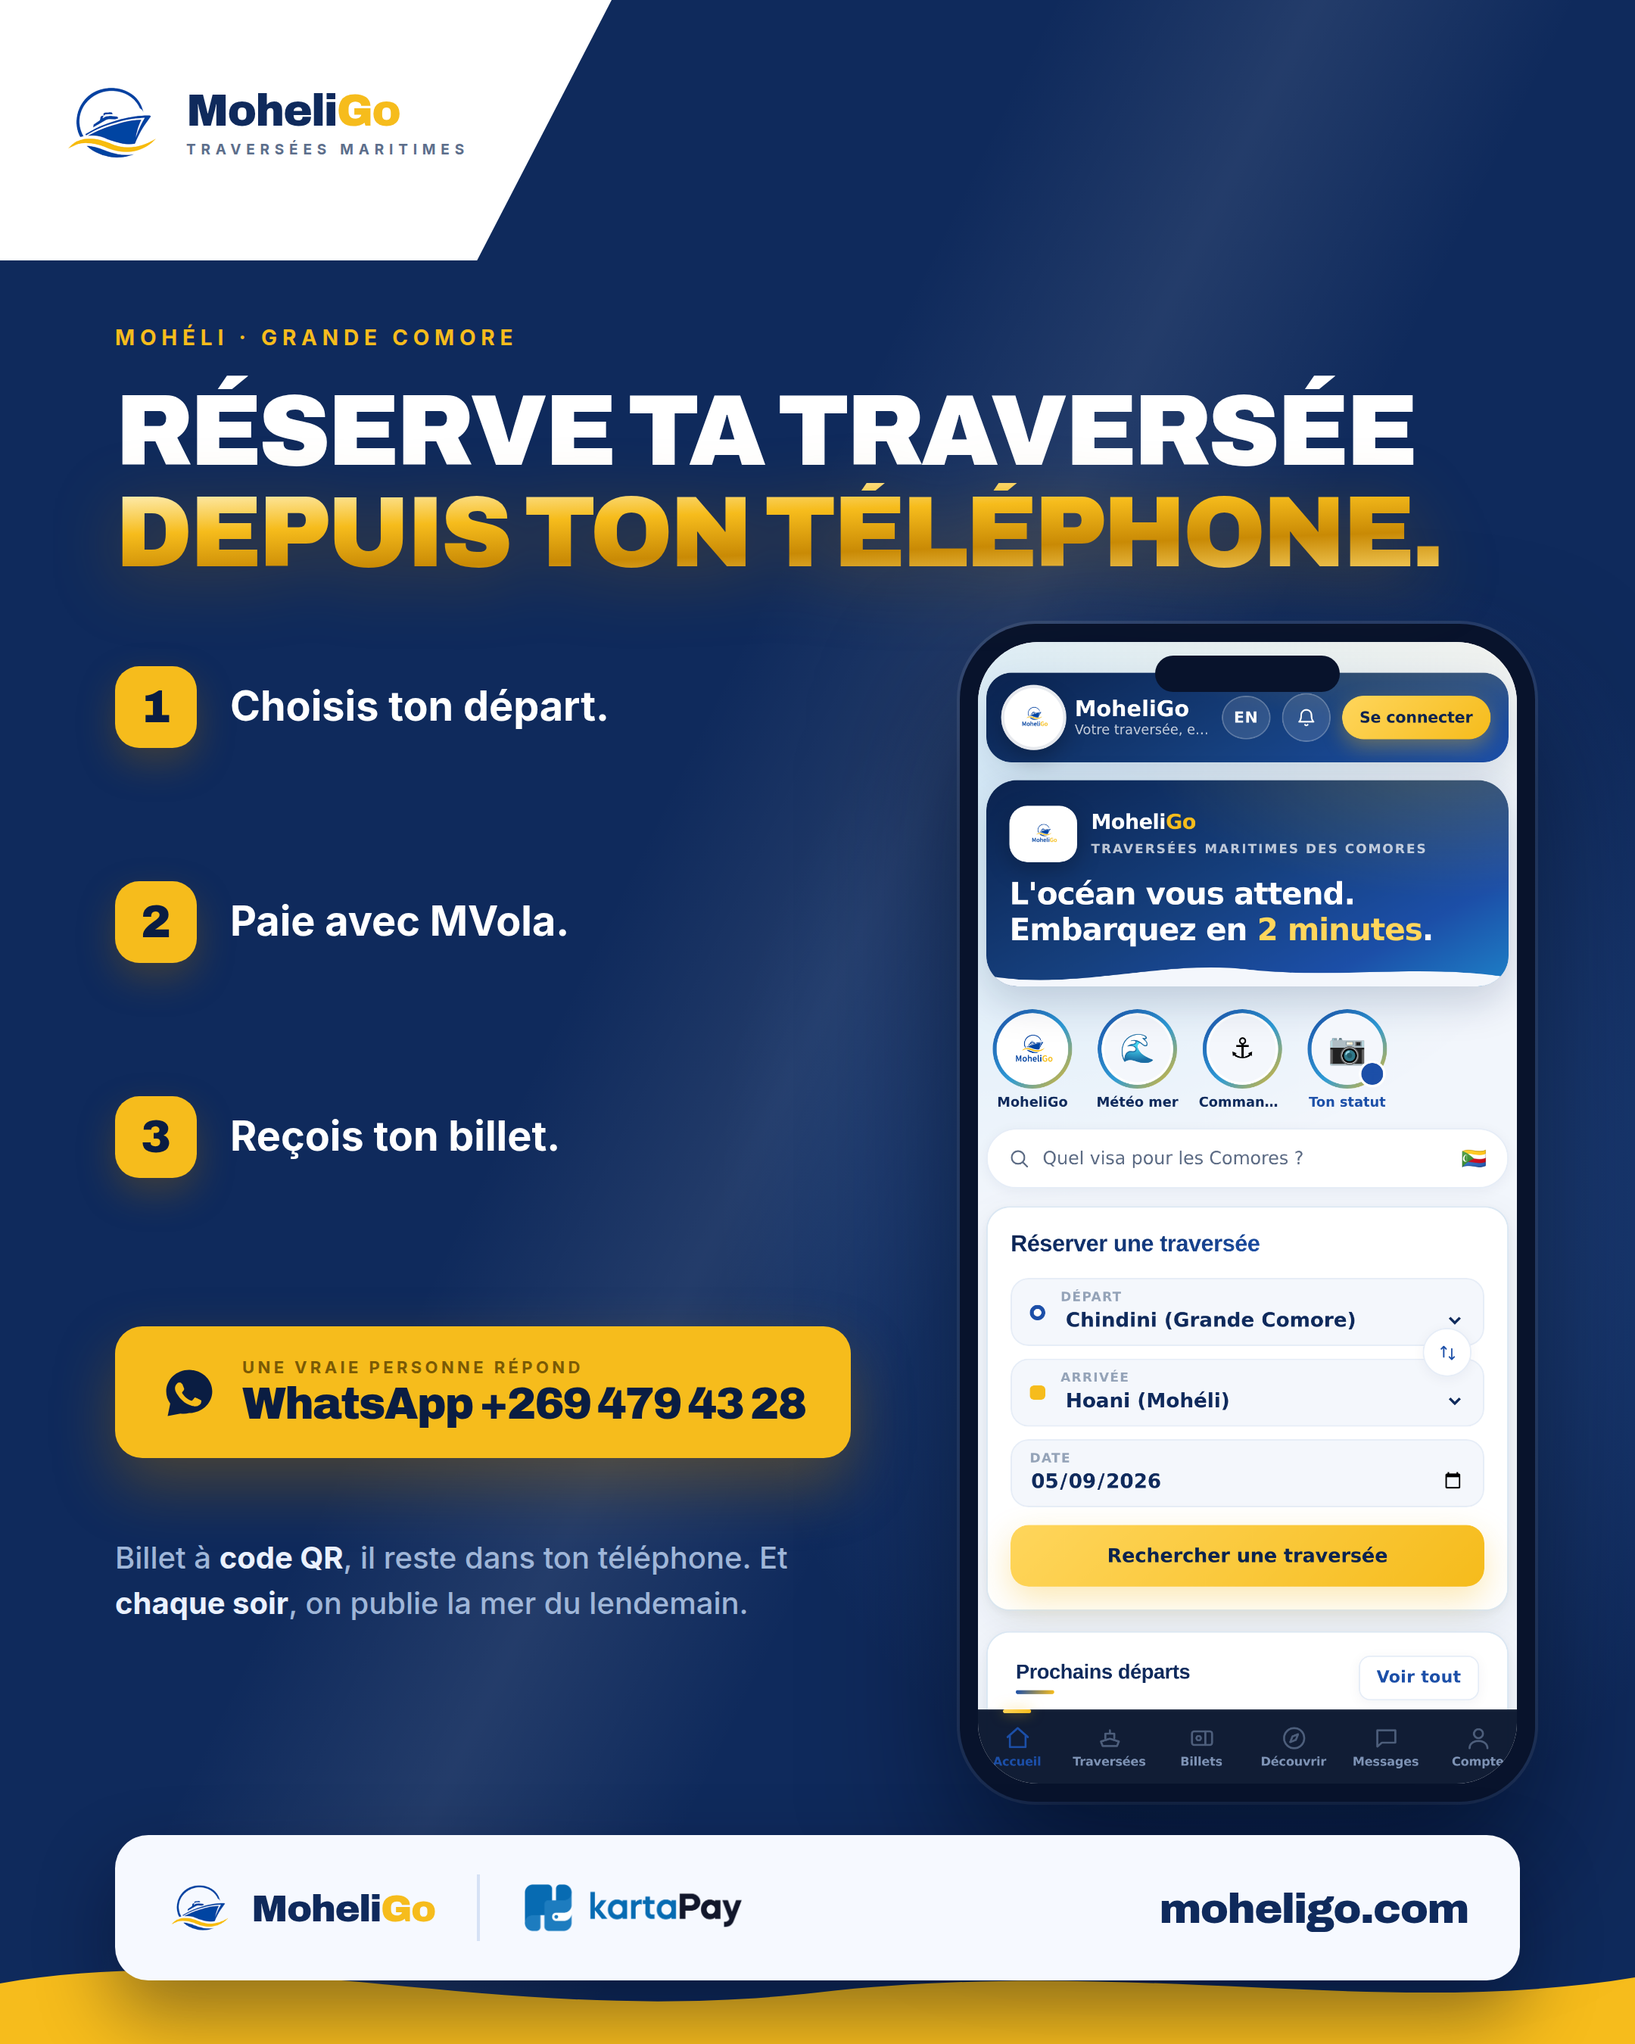
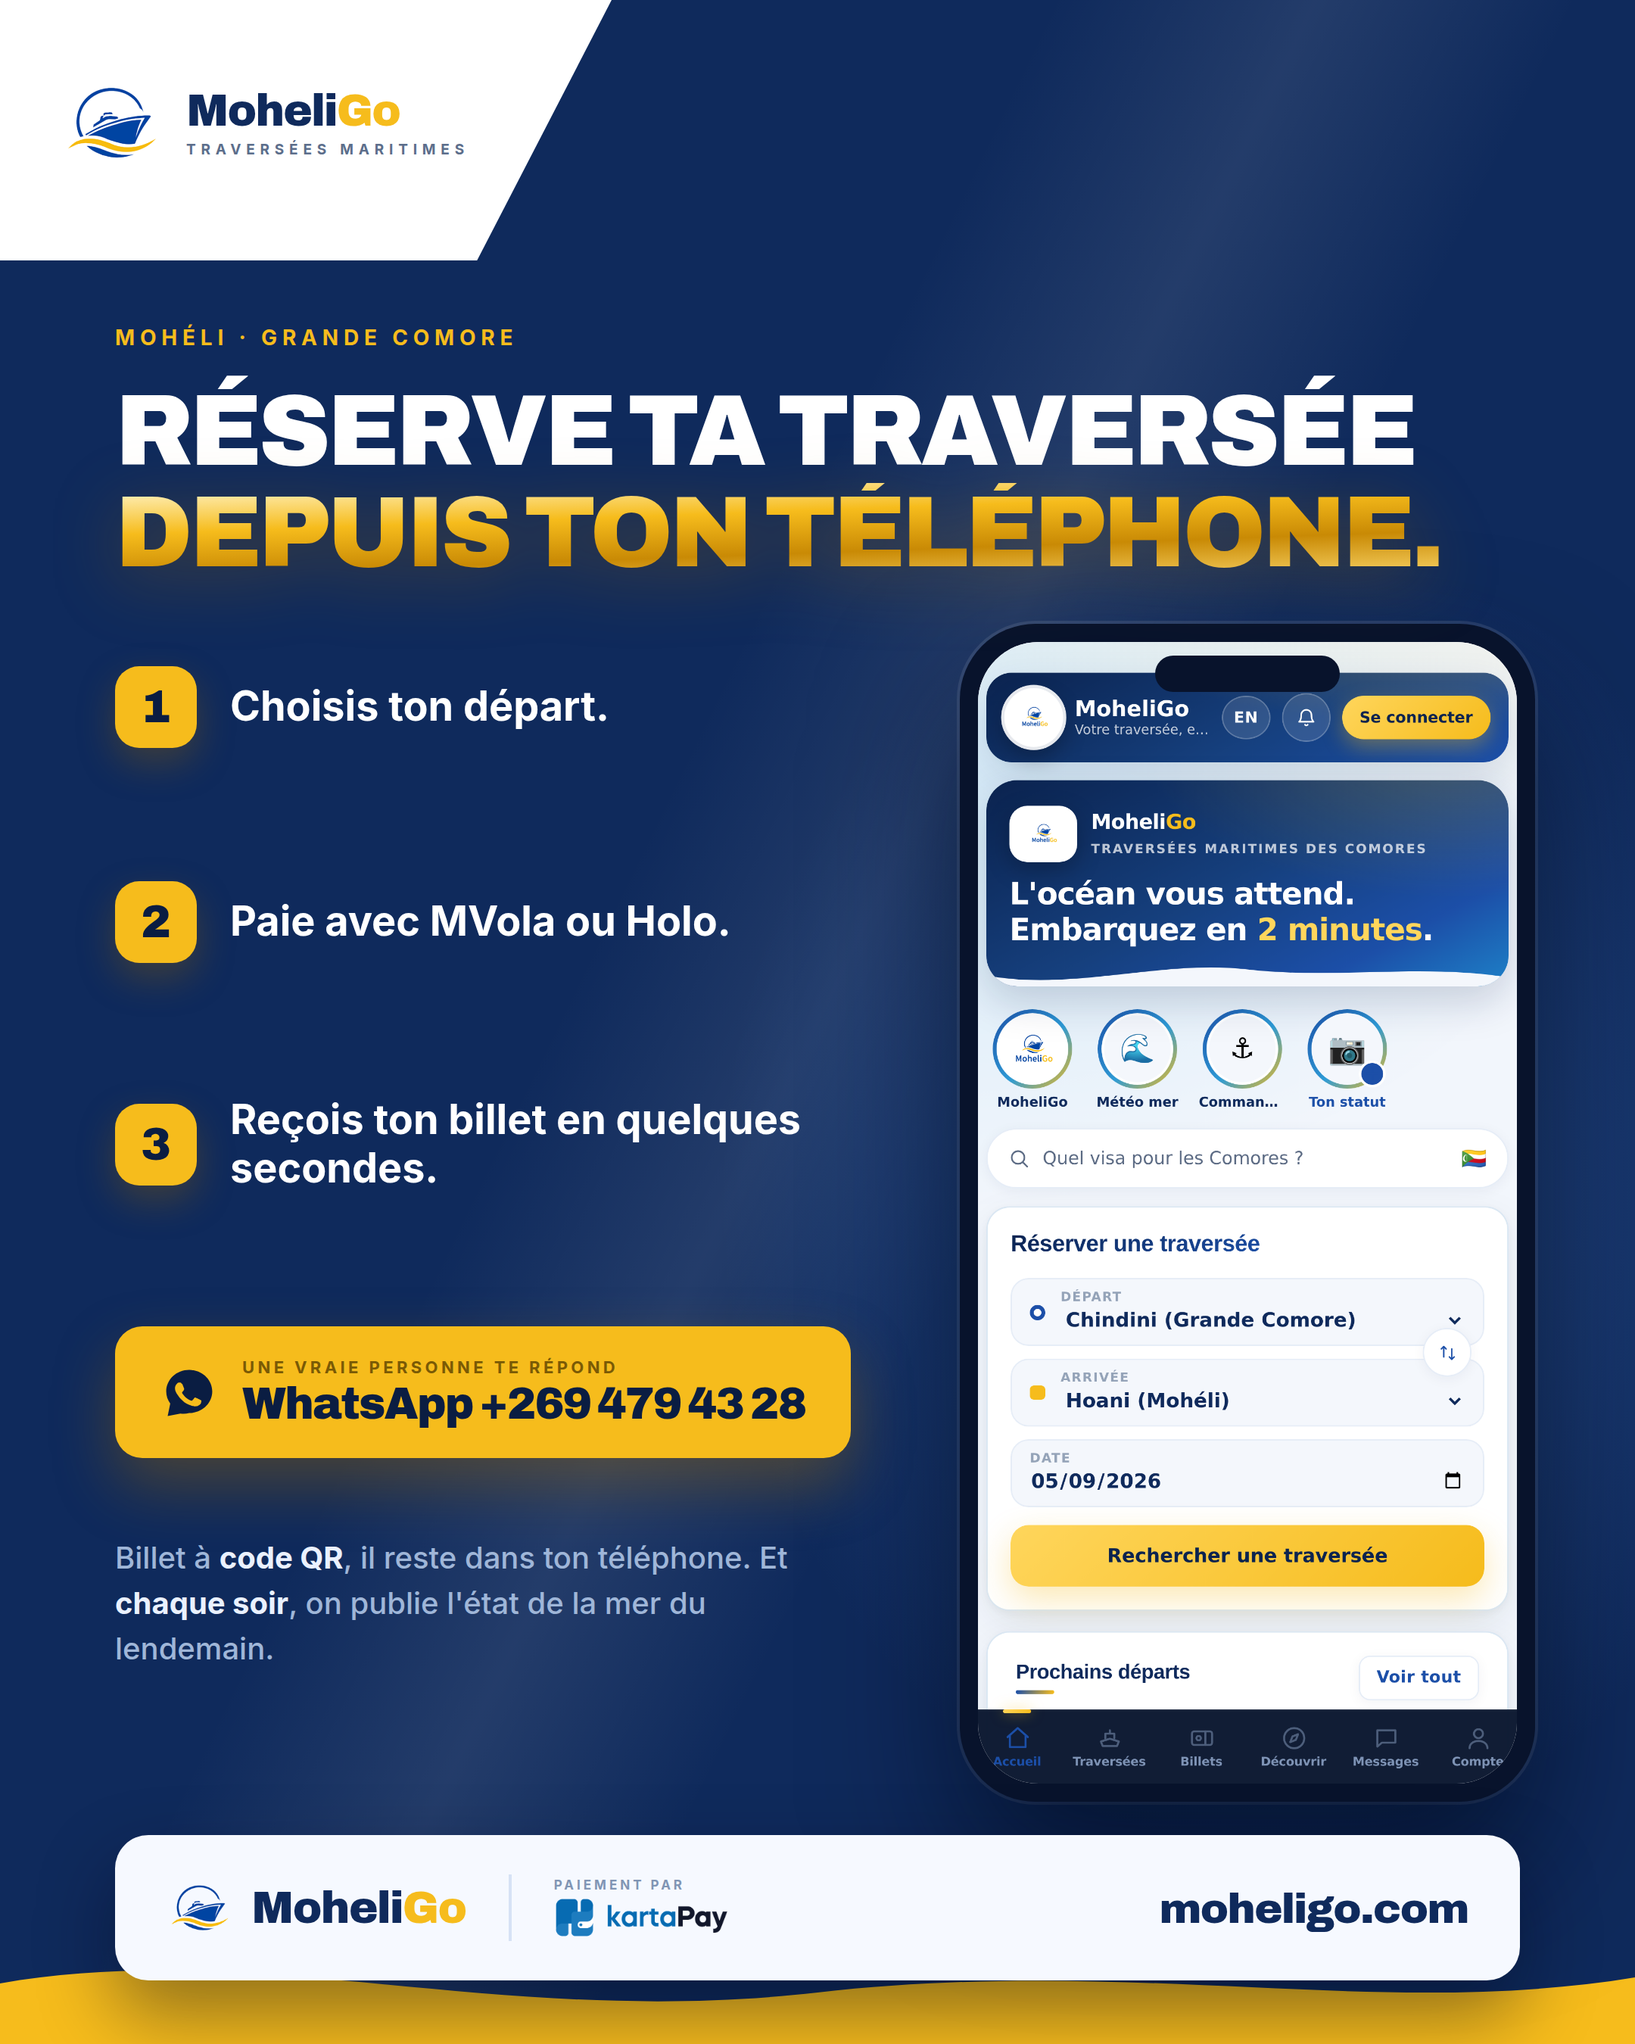
Mesurer la marque au lieu d'acquiescer, et deux corrections de fond
Le patron demande si on peut viser le niveau des grandes marques. Le relecteur
affirme trois choses ; on a fabriqué l'instrument et on a compte.

mesure-marque.py repond a trois questions avec des chiffres :
· la vague : 12 visuels sur 45 en portent une, en 14 traces differents.
  Une signature qui a quatorze dessins n'est pas une signature.
· l'or : moyenne 7,0 %, proche de la regle proposee. Mais l'ecart va de
  0,1 % a 19,8 % et 27 visuels sur 39 sont hors bande. Ce n'est pas la
  moyenne qui cloche, c'est l'absence de regle.
· l'embleme : a 32 px il garde 414 nuances et se referme en tache. C'est
  une illustration, pas un symbole. Le test « cache le mot » echoue.

Il ne corrige rien, expres : ca touche a l'identite, donc ca se propose.

Deux corrections que la verification a imposees, contre son avis ou au-dela :
· il proposait « les departs du lendemain sont publies ». C'est faux, on
  publie l'etat de la MER. Sa remarque etait juste, sa correction mentait.
· l'appli accepte MVola ET Holo, tous deux via kartaPay. « Paie avec MVola »
  excluait les clients Holo — une omission presente, pas un risque futur.

Plus : un seul registre (« te repond »), « en quelques secondes » qui est le
mot de nos CGV, et la barre partenaire remise en hierarchie.

Claude-Session: https://claude.ai/code/session_01BYJ87ihntXtVLQBUE1Jkoy

diff --git a/moheligo/pub/flyers/flyer40-reserve-fb.html b/moheligo/pub/flyers/flyer40-reserve-fb.html
@@ -122,7 +122,13 @@ body { width:1080px; height:1350px; font-family:'Inter',sans-serif; -webkit-font
   color:#0F2A5C; letter-spacing:-.8px; }
 .barre .mg b i { color:#F6BC1C; font-style:normal; }
 .barre .sep { width:2px; height:44px; background:#D6E2F5; }
-.barre .kp img { height:34px; display:block; }
+/* ⚖ QUI EST LE HÉROS ? Nous. kartaPay est le MOYEN, pas l'annonceur — sans
+   quoi le lecteur se demande de quelle marque est la pub. Le partenaire garde
+   sa place et sa lisibilité, il perd juste l'égalité de rang. */
+.barre .kp { display:flex; flex-direction:column; justify-content:center; gap:3px; }
+.barre .kp small { font-size:8.5px; font-weight:700; letter-spacing:2px; color:#8095B4; }
+.barre .kp img { height:27px; display:block; }
+.barre .mg b { font-size:29px; }
 .barre .web { margin-left:auto; font-family:'Archivo',sans-serif; font-weight:900;
   font-size:28px; color:#0F2A5C; letter-spacing:-.8px; }
 
@@ -143,8 +149,8 @@ body { width:1080px; height:1350px; font-family:'Inter',sans-serif; -webkit-font
 
   <div class="etapes">
     <div class="e"><div class="n">1</div><div class="l">Choisis ton départ.</div></div>
-    <div class="e"><div class="n">2</div><div class="l">Paie avec MVola.</div></div>
-    <div class="e"><div class="n">3</div><div class="l">Reçois ton billet.</div></div>
+    <div class="e"><div class="n">2</div><div class="l">Paie avec MVola ou Holo.</div></div>
+    <div class="e"><div class="n">3</div><div class="l">Reçois ton billet en quelques secondes.</div></div>
   </div>
 
   <div class="tel">
@@ -160,18 +166,18 @@ body { width:1080px; height:1350px; font-family:'Inter',sans-serif; -webkit-font
             fill="#F6BC1C"/>
     </svg>
     <div class="t">
-      <div class="p">UNE VRAIE PERSONNE RÉPOND</div>
+      <div class="p">UNE VRAIE PERSONNE TE RÉPOND</div>
       <div class="n">WhatsApp +269 479 43 28</div>
     </div>
   </div>
 
   <div class="preuve">Billet à <b>code QR</b>, il reste dans ton téléphone.
-    Et <b>chaque soir</b>, on publie la mer du lendemain.</div>
+    Et <b>chaque soir</b>, on publie l'état de la mer du lendemain.</div>
 
   <div class="barre">
     <div class="mg"><img src="logo-emblem.png" alt=""><b>Moheli<i>Go</i></b></div>
     <div class="sep"></div>
-    <div class="kp"><img src="kartapay-logo.png" alt="kartaPay"></div>
+    <div class="kp"><small>PAIEMENT PAR</small><img src="kartapay-logo.png" alt="kartaPay"></div>
     <div class="web">moheligo.com</div>
   </div>
 

diff --git a/moheligo/pub/flyers/mesure-marque.py b/moheligo/pub/flyers/mesure-marque.py
@@ -1,0 +1,163 @@
+#!/usr/bin/env python3
+"""📐 MESURER LA MARQUE — pas la juger, la mesurer.
+
+29/08/2026. Une relecture extérieure a dit : « votre vague doit devenir un
+élément officiel », « le jaune doit devenir une propriété », « votre symbole
+doit être reconnaissable sans le mot ». Trois affirmations justes — mais dites
+de l'extérieur, donc devinées.
+
+📌 LA RÈGLE QU'ON S'EST DONNÉE LE 29/08 : quand un relecteur signale une
+incohérence, on ne discute pas, ON MESURE. Ce fichier est l'instrument. Il
+répond à trois questions, et il donne des CHIFFRES, pas des avis :
+
+  1. LA VAGUE  — combien de formes différentes portent le même nom ?
+                 Une signature qui a six dessins n'est pas une signature.
+  2. L'OR      — quelle part de chaque visuel ? La règle proposée est 10 %.
+                 Ce qui compte n'est pas la moyenne, c'est L'ÉCART : une marque
+                 dont les visuels vont de 0,1 % à 19,8 % n'a pas de règle.
+  3. L'EMBLÈME — tient-il à 32 px, taille d'une pastille d'application ?
+                 C'est le test « cache le mot, reste-t-il reconnaissable ? ».
+
+    python3 mesure-marque.py
+
+⚠ CE PROGRAMME NE CORRIGE RIEN, exprès. Il constate. La correction touche à
+l'identité (le logo est celui du patron, la vague aussi) : elle se propose, elle
+ne se décide pas ici. Manuel § 12.2, règle A / B / C — dans le doute, je propose.
+"""
+import glob
+import os
+import re
+import sys
+from collections import defaultdict
+
+try:
+    from PIL import Image
+except ImportError:
+    sys.exit("pillow manquant :  pip install pillow")
+
+ICI = os.path.dirname(os.path.abspath(__file__))
+OR_VISE = (8.0, 15.0)      # la bande qu'on se donne, voir plus bas
+PETIT = 32                 # taille d'une pastille d'application
+
+
+def _paths(texte):
+    """Les tracés larges qui ferment vers le bas : les vagues, pas les icônes."""
+    sortie = []
+    for d in re.findall(r'<path[^>]*\sd="([^"]+)"', texte):
+        if not re.match(r'^M\s*0[ ,]', d):
+            continue
+        nombres = [float(x) for x in re.findall(r'-?\d+\.?\d*', d)]
+        if nombres and max(nombres) > 200:       # une icône tient dans 24 ou 40
+            sortie.append(' '.join(d.split()))
+    return sortie
+
+
+def la_vague():
+    formes = defaultdict(set)
+    fichiers = sorted(glob.glob(os.path.join(ICI, 'flyer*.html')))
+    sans = []
+    for f in fichiers:
+        trouves = _paths(open(f, encoding='utf-8').read())
+        if trouves:
+            for d in trouves:
+                formes[d].add(os.path.basename(f))
+        else:
+            sans.append(os.path.basename(f))
+    avec = len(fichiers) - len(sans)
+    print(f"\n🌊 LA VAGUE")
+    print(f"   {len(fichiers)} sources de visuels")
+    print(f"   {avec} en portent une · {len(sans)} n'en portent AUCUNE")
+    print(f"   {len(formes)} tracés différents pour un seul nom")
+    for i, (d, fs) in enumerate(sorted(formes.items(), key=lambda k: -len(k[1])), 1):
+        print(f"     {i:2}. {len(fs):2} visuel(s)  {d[:56]}…")
+    if len(formes) > 1:
+        print("   ⚠  Une signature de marque a UN dessin. Ici elle en a "
+              f"{len(formes)}, et {len(sans)} visuels s'en passent.")
+    return len(formes), avec, len(sans)
+
+
+def _classe(px):
+    r, g, b = px
+    if r > 200 and g > 200 and b > 200:
+        return 'blanc'
+    if r > 150 and g > 120 and b < 110 and r > b + 60:
+        return 'or'
+    if b > r + 25 and b > 60:
+        return 'bleu'
+    return 'autre'
+
+
+def l_or():
+    """La part d'or de chaque visuel publié.
+
+    ⚠ On échantillonne en 160 x 200 : on cherche une PROPORTION, pas un pixel.
+    Mesurer en pleine résolution donnerait le même chiffre en 300 fois plus de
+    temps.
+    """
+    lignes = []
+    for f in sorted(glob.glob(os.path.join(ICI, 'flyer-*facebook.png'))):
+        im = Image.open(f).convert('RGB').resize((160, 200))
+        n = defaultdict(int)
+        for px in im.getdata():
+            n[_classe(px)] += 1
+        t = sum(n.values())
+        lignes.append((n['or'] / t * 100, n['bleu'] / t * 100,
+                       os.path.basename(f)[6:-13]))
+    if not lignes:
+        print("\n🟡 L'OR — aucun visuel rendu, rien à mesurer.")
+        return
+    lignes.sort(reverse=True)
+    moy = sum(l[0] for l in lignes) / len(lignes)
+    hors = [l for l in lignes if not (OR_VISE[0] <= l[0] <= OR_VISE[1])]
+    print(f"\n🟡 L'OR  ({len(lignes)} visuels publiés)")
+    print(f"   moyenne {moy:.1f} %  ·  du plus sobre {lignes[-1][0]:.1f} % "
+          f"au plus chargé {lignes[0][0]:.1f} %")
+    print(f"   bande visée {OR_VISE[0]:.0f}–{OR_VISE[1]:.0f} % : "
+          f"{len(lignes) - len(hors)} dedans, {len(hors)} dehors")
+    print("   les cinq plus chargés  : " +
+          ', '.join(f"{n} {o:.0f}%" for o, _, n in lignes[:5]))
+    print("   les cinq plus pauvres  : " +
+          ', '.join(f"{n} {o:.0f}%" for o, _, n in lignes[-5:]))
+    print("   📌 Ce n'est pas la moyenne qui cloche — elle est bonne. C'est "
+          "L'ÉCART :\n      un visuel à 0,1 % et un autre à 20 % ne viennent "
+          "pas de la même marque.")
+
+
+def l_embleme():
+    f = os.path.join(ICI, 'logo-emblem.png')
+    if not os.path.exists(f):
+        print("\n🔵 L'EMBLÈME — logo-emblem.png introuvable.")
+        return
+    im = Image.open(f).convert('RGB')
+    petit = im.resize((PETIT, PETIT), Image.LANCZOS)
+    # Combien de couleurs distinctes survivent ? Un symbole fort en garde 2 ou 3
+    # nettes ; une illustration se mélange en une bouillie de nuances.
+    couleurs = len(set(petit.getdata()))
+    n = defaultdict(int)
+    for px in petit.getdata():
+        n[_classe(px)] += 1
+    t = sum(n.values())
+    print(f"\n🔵 L'EMBLÈME  ({im.size[0]} x {im.size[1]})")
+    print(f"   réduit à {PETIT} px : {couleurs} nuances distinctes")
+    print(f"   dont bleu {n['bleu']/t*100:.0f} %  or {n['or']/t*100:.0f} %  "
+          f"blanc {n['blanc']/t*100:.0f} %")
+    if couleurs > 120:
+        print("   ⚠  À la taille d'une pastille d'application, le dessin se "
+              "referme en tache.\n      C'est une ILLUSTRATION (un navire vu de "
+              "trois quarts, avec ses ponts),\n      pas encore un SYMBOLE. Le "
+              "test « cache le mot » n'est pas passé.")
+    else:
+        print("   ✅ Le dessin tient à la taille d'une pastille.")
+
+
+if __name__ == '__main__':
+    print("=" * 68)
+    print(" MESURE DE LA MARQUE MoheliGo — des chiffres, pas des avis")
+    print("=" * 68)
+    la_vague()
+    l_or()
+    l_embleme()
+    print("\n" + "=" * 68)
+    print(" Ces trois mesures ne disent PAS quoi faire. Elles disent où on en")
+    print(" est. Ce qui touche à l'identité se propose au patron — § 12.2.")
+    print("=" * 68)

diff --git a/moheligo/dossier/MEMOIRE.md b/moheligo/dossier/MEMOIRE.md
@@ -370,6 +370,46 @@ recharger ce sujet ici, ce n'est pas du marketing.
 
 ## 6. Journal des sessions
 
+- **29/08/2026 (📐 « CONSTRUIRE UNE MARQUE » — les trois affirmations du relecteur,
+  MESURÉES)** — le patron demande si on peut viser le niveau Apple / LVMH. Le
+  relecteur affirme trois choses ; au lieu d'acquiescer, on a fabriqué
+  `pub/flyers/mesure-marque.py` et on a compté. **Il a raison sur les trois, et
+  c'est pire que ce qu'il croyait** :
+  · **la vague** — 12 visuels sur 45 en portent une, en **14 tracés différents**.
+    33 s'en passent complètement. Ce n'est pas une signature, c'est une habitude
+    récente (les 3 derniers flyers seulement partagent le même tracé) ;
+  · **l'or** — moyenne 7,0 %, très proche de sa règle des 10 %. Mais l'ÉCART va
+    de **0,1 % à 19,8 %**, et 27 visuels sur 39 sont hors de la bande 8–15 %.
+    Ce n'est pas la moyenne qui cloche, c'est l'absence de règle ;
+  · **l'emblème** — réduit à 32 px (taille d'une pastille d'appli), il garde
+    **414 nuances** et se referme en tache. C'est une ILLUSTRATION (un navire de
+    trois quarts avec ses ponts), pas un SYMBOLE. Le test « cache le mot » échoue.
+  📌 **La règle du 29/08 tient une seconde fois** : quand un relecteur signale une
+  incohérence, on ne discute pas, on mesure — et la mesure trouve plus que la
+  remarque. Comme pour la charte le matin même.
+  ⛔ **CE QUE JE N'AI PAS PRIS, et pourquoi ça compte** : il proposait de
+  remplacer « on publie la mer du lendemain » par « les départs du lendemain sont
+  publiés ». **C'est faux** : on publie l'état de la MER, pas les départs. Sa
+  remarque de fond (c'est obscur) était juste, sa correction aurait menti.
+  Corrigé en « l'état de la mer du lendemain » — clair ET vrai.
+  ✅ **Trouvé en vérifiant ses dires** : l'appli accepte **MVola ET Holo** (119 et
+  14 occurrences dans `index.html`), tous deux via kartaPay. Écrire « Paie avec
+  MVola » excluait les clients Holo. Ce n'était pas un risque futur comme il le
+  pensait — c'était une omission présente. Corrigé.
+  ✅ Appliqué aussi : « une vraie personne TE répond » (un seul registre, on
+  tutoie partout), « en quelques secondes » (le mot de nos propres CGV, pas
+  « instantanément » qui va plus loin qu'elles), et la barre partenaire remise en
+  hiérarchie — MoheliGo héros, « PAIEMENT PAR kartaPay » en second.
+  🔴 **CE QUE JE REFUSE POUR L'INSTANT** : l'architecture de marque en six
+  filiales (TRAVEL / DISCOVER / STAY / MOVE / BUSINESS / ADS). Une route, fermée
+  depuis le 26/08, 33 abonnés, zéro réservation mesurée. Nommer six divisions
+  d'une entreprise qui n'a pas prouvé une vente, c'est l'erreur de fondateur
+  déjà consignée au manuel. À garder comme carte à trois ans, pas comme chantier.
+  🔴 **ET LE CONSEIL DANGEREUX À NOTRE STADE** : « moins publicitaire, laisse
+  respirer, le premium ne crie pas ». Vrai pour qui a déjà la distribution.
+  **Apple chuchote parce que tout le monde écoute déjà.** Nous avons 33
+  personnes qui écoutent : chuchoter, c'est se taire.
+
 - **29/08/2026 (🚩 UNE DATE À L'ENVERS SUR L'ÉCRAN DU PRODUIT — et deux défauts
   que seul le rendu a montrés)** — en fabriquant la variante « Réserve ta
   traversée » (flyer 40), trois choses sont apparues, toutes invisibles au code :
